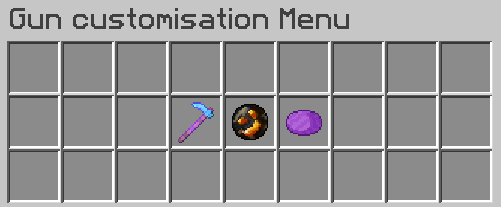
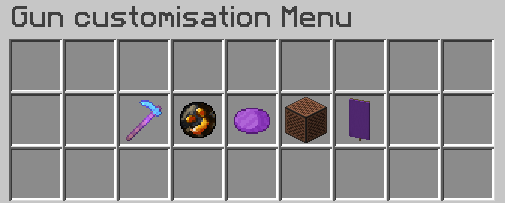
Updated quake page

Changed region(s): [[0.0, 0.1773, 0.988, 1.0], [0.0, 0.0296, 0.7186, 0.1478]]

diff --git a/src/Quake.svelte b/src/Quake.svelte
@@ -25,13 +25,19 @@
         Turns out it was really easy to do so this project was made in less than a week<br>
         <br>
         At first it wasn't supposed to have gun customisation but some friends asked for it<br>
-        So yeah, just a simple plugin made for my own learning experience
+        A bit later on Rackals one of the biggest Hypixel QuakeCraft player asked for multiples map support<br>
+        And since I'm just adding new features based on player request such as kill sounds and trigger/dash speed<br>
     </p>
+
+    <img src="img/rackals-quote.png" alt="railgun" class="features-img"><br>
+    <img src="img/galiano-quote.png" alt="railgun" class="features-img">
+
 </div>
 
 <div class="features">
 
     <h1 class="features-title">Demo</h1>
+    This is a raw footage video I'm sorry, the real preview video is W.I.P
     <iframe class="features-vid" src="https://www.youtube.com/embed/-bWFTFtxhPQ" title="YouTube video player" frameborder="0" allow="accelerometer; autoplay; clipboard-write; encrypted-media; gyroscope; picture-in-picture" allowfullscreen></iframe>
 
     <h1 class="features-title">Features</h1>
@@ -40,19 +46,32 @@
         But the main ones are obviously the Railgun and the dash mechanics
     </p>
     <img src="img/railgun.png" alt="railgun" class="features-img">
-    <p class="note">(Railgun in action)</p>
+    <p class="note">(During a game from my POV)</p>
 
     <p>
         Full game only solo mode, first one to 25 point win the game
     </p>
-    <img src="img/quake-game.png" alt="game" class="features-img">
+    <img src="img/quake-game.png" alt="game" class="features-img"><br>
+    <img src="img/quake-scoreboard.png" alt="game" class="features-img">
+    <img src="img/quake-chat.png" alt="game" class="features-img">
     <p class="note">(Yeah, I know it's literally Hypixel QuakeCraft at this point sorry)</p>
 
     <p>
-        The gun customisation menu, this screenshot is only the main page<br>
-        It is divided in 3 parts: the gun item, the explosion shape and explosion color
+        The gun customisation menu<br>
+        It is divided in 6 parts:<br>
+        - Main menu<br>
+        - Gun item menu<br>
+        - Explosion shape menu<br>
+        - Explosion color menu<br>
+        - Kill sound<br>
+        - Name color<br>
     </p>
     <img src="img/quake-menu.png" alt="menu" class="features-img">
+    <img src="img/quake-menu2.png" alt="menu" class="features-img"><br>
+    <img src="img/quake-menu3.png" alt="menu" class="features-img">
+    <img src="img/quake-menu4.png" alt="menu" class="features-img"><br>
+    <img src="img/quake-menu1.png" alt="menu" class="features-img">
+    <img src="img/quake-menu5.png" alt="menu" class="features-img">
     <p class="note">(Like I said this wasn't supposed to be a feature but whatever)</p>
 
 </div>
